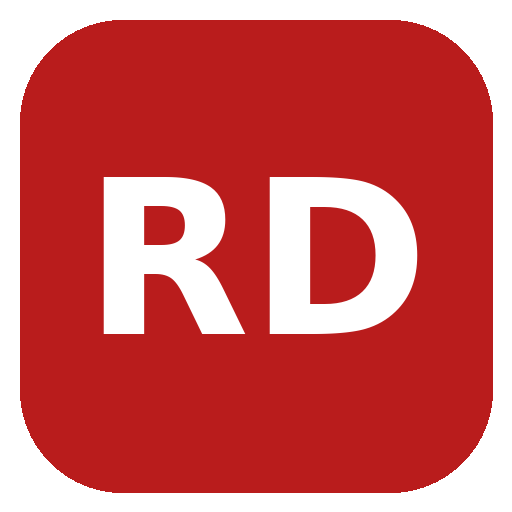
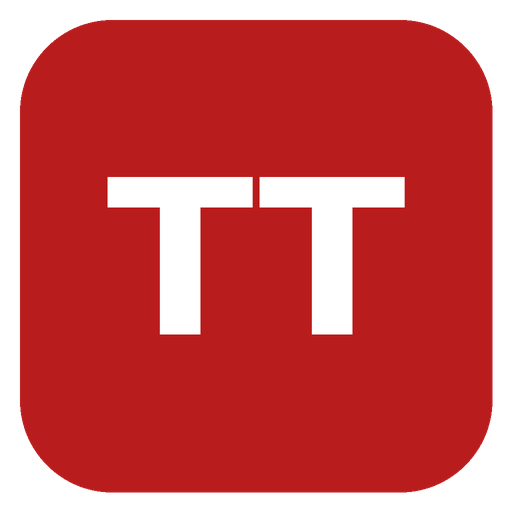
Rename the system from ReturnDesk to Track-and-Trace
Visible name, logo initials, app icons, page titles, installed-app name,
emails, notifications, download filenames, docs, and test fixtures now
say Track-and-Trace. Internal identifiers that live data depends on stay
as they are: the returndesk database name, the returndesk/ Cloudinary
folders, and the service worker cache name.

The admin header shows only the TT mark on wide screens so the longer
name doesn't push the navigation out of place.

diff --git a/tests/api/setup-users.ts b/tests/api/setup-users.ts
@@ -5,7 +5,7 @@
 // Uses DATABASE_URL (or .env.local) and refuses to touch a non-local database.
 import { config } from "dotenv";
 import { hashPassword } from "better-auth/crypto";
-import { eq, inArray } from "drizzle-orm";
+import { eq, inArray, or } from "drizzle-orm";
 import { drizzle } from "drizzle-orm/mysql2";
 import mysql from "mysql2/promise";
 import { randomUUID } from "node:crypto";
@@ -15,8 +15,8 @@ import * as schema from "../../src/db/schema";
 config({ path: ".env.local" });
 
 const API_USERS = {
-  student: { email: "api.student@returndesk.test", verified: true },
-  unverified: { email: "api.unverified@returndesk.test", verified: false },
+  student: { email: "api.student@trackandtrace.test", verified: true },
+  unverified: { email: "api.unverified@trackandtrace.test", verified: false },
 };
 
 async function main() {
@@ -31,7 +31,12 @@ async function main() {
   const pool = mysql.createPool(poolOptions(url));
   const db = drizzle(pool, { schema, mode: "default" });
   const emails = Object.values(API_USERS).map((u) => u.email);
-  const old = await db.select({ id: schema.user.id }).from(schema.user).where(inArray(schema.user.email, emails));
+  const idNumbers = Object.keys(API_USERS).map((key) => `API-${key.toUpperCase()}`);
+  // Match on ID number too, so accounts left from an older email domain are replaced.
+  const old = await db
+    .select({ id: schema.user.id })
+    .from(schema.user)
+    .where(or(inArray(schema.user.email, emails), inArray(schema.user.idNumber, idNumbers)));
   for (const { id } of old) {
     await db.delete(schema.session).where(eq(schema.session.userId, id));
     await db.delete(schema.account).where(eq(schema.account.userId, id));

diff --git a/src/app/(public)/page.tsx b/src/app/(public)/page.tsx
@@ -8,7 +8,7 @@ const steps = [
   },
   {
     title: "Match",
-    body: "ReturnDesk compares lost and found reports automatically and alerts you when it finds a likely match.",
+    body: "Track-and-Trace compares lost and found reports automatically and alerts you when it finds a likely match.",
   },
   {
     title: "Claim",
@@ -28,7 +28,7 @@ export default function HomePage() {
             Lost something on campus? Let&apos;s get it back to you.
           </h1>
           <p className="mt-4 max-w-xl text-brand-100">
-            ReturnDesk is the official channel for reporting, searching, and claiming lost and found
+            Track-and-Trace is the official channel for reporting, searching, and claiming lost and found
             items. No more scrolling through group chats and notice boards.
           </p>
           <div className="mt-8 flex flex-wrap gap-3">
@@ -64,7 +64,7 @@ export default function HomePage() {
         <div className="rounded-lg bg-amber-50 p-5 text-sm text-amber-900 ring-1 ring-amber-200">
           <p className="font-semibold">Found an item?</p>
           <p className="mt-1">
-            Report it in ReturnDesk, then bring it to the Lost and Found Office. Under the Civil Code
+            Report it in Track-and-Trace, then bring it to the Lost and Found Office. Under the Civil Code
             (Articles 719–720), found property must be returned to its owner or turned over to the
             proper authorities. The office keeps it safe until the owner is verified.
           </p>

diff --git a/src/lib/email.ts b/src/lib/email.ts
@@ -26,7 +26,7 @@ function layout(title: string, paragraphs: string[], action?: { label: string; u
        <p style="margin:0 0 12px;font-size:12px;color:#6b7280">If the button doesn't work, copy this link: ${escapeHtml(action.url)}</p>`
     : "";
   return `<div style="font-family:Arial,sans-serif;max-width:560px;margin:auto;color:#111827">
-    <h2 style="color:#1d4ed8;margin:0 0 16px">ReturnDesk</h2>
+    <h2 style="color:#1d4ed8;margin:0 0 16px">Track-and-Trace</h2>
     <h3 style="margin:0 0 12px">${escapeHtml(title)}</h3>
     ${body}${button}
     <hr style="border:none;border-top:1px solid #e5e7eb;margin:24px 0">
@@ -58,9 +58,9 @@ export async function sendEmail(message: EmailMessage) {
   }
   try {
     await transporter.sendMail({
-      from: `ReturnDesk <${env.SMTP_USER}>`,
+      from: `Track-and-Trace <${env.SMTP_USER}>`,
       to: message.to,
-      subject: `ReturnDesk: ${message.subject}`,
+      subject: `Track-and-Trace: ${message.subject}`,
       text,
       html: layout(message.title, message.paragraphs, action),
     });

diff --git a/src/app/(public)/layout.tsx b/src/app/(public)/layout.tsx
@@ -13,7 +13,7 @@ export default async function PublicLayout({ children }: { children: React.React
           <nav className="flex items-center gap-2">
             {user ? (
               <Link href={user.role === "admin" ? "/admin" : "/dashboard"} className={buttonClass("primary", "sm")}>
-                Open ReturnDesk
+                Open Track-and-Trace
               </Link>
             ) : (
               <>
@@ -31,7 +31,7 @@ export default async function PublicLayout({ children }: { children: React.React
       <main className="flex-1">{children}</main>
       <footer className="border-t border-slate-200 bg-white">
         <div className="mx-auto flex max-w-6xl flex-col gap-2 px-4 py-6 text-xs text-slate-500 sm:flex-row sm:justify-between">
-          <p>ReturnDesk · Bulacan State University – Main Campus Lost and Found</p>
+          <p>Track-and-Trace · Bulacan State University – Main Campus Lost and Found</p>
           <Link href="/privacy" className="hover:underline">
             Data privacy notice
           </Link>

diff --git a/public/offline.html b/public/offline.html
@@ -3,7 +3,7 @@
   <head>
     <meta charset="utf-8" />
     <meta name="viewport" content="width=device-width, initial-scale=1" />
-    <title>Offline · ReturnDesk</title>
+    <title>Offline · Track-and-Trace</title>
     <style>
       body { font-family: system-ui, sans-serif; background: #f8fafc; color: #0f172a; display: flex; min-height: 100vh; align-items: center; justify-content: center; margin: 0; padding: 16px; }
       .card { background: #fff; border-radius: 12px; padding: 32px; max-width: 360px; text-align: center; box-shadow: 0 1px 3px rgba(0,0,0,.1); }
@@ -15,7 +15,7 @@
     <div class="card">
       <div class="logo">RD</div>
       <h1 style="font-size:20px">You're offline</h1>
-      <p style="color:#475569;font-size:14px">ReturnDesk needs an internet connection. Check your connection and try again.</p>
+      <p style="color:#475569;font-size:14px">Track-and-Trace needs an internet connection. Check your connection and try again.</p>
       <button onclick="location.reload()">Try again</button>
     </div>
   </body>

diff --git a/src/components/logo.tsx b/src/components/logo.tsx
@@ -1,12 +1,14 @@
 import Link from "next/link";
 
-export function Logo({ href = "/" }: { href?: string }) {
+// `compact` hides the name on wide screens, where the admin navigation needs
+// the room; below that width the navigation collapses into a menu.
+export function Logo({ href = "/", compact = false }: { href?: string; compact?: boolean }) {
   return (
-    <Link href={href} className="flex items-center gap-2 font-semibold text-slate-900">
-      <span className="flex h-8 w-8 items-center justify-center rounded-md bg-brand-600 text-sm font-bold text-white">
-        RD
+    <Link href={href} className="flex shrink-0 items-center gap-2 whitespace-nowrap font-semibold text-slate-900">
+      <span className="flex h-8 w-8 shrink-0 items-center justify-center rounded-md bg-brand-600 text-sm font-bold text-white">
+        TT
       </span>
-      <span className="text-lg tracking-tight">ReturnDesk</span>
+      <span className={`text-lg tracking-tight${compact ? " xl:sr-only" : ""}`}>Track-and-Trace</span>
     </Link>
   );
 }

diff --git a/src/lib/auth.ts b/src/lib/auth.ts
@@ -84,7 +84,7 @@ export const auth = betterAuth({
         title: "Reset your password",
         paragraphs: [
           `Hi ${user.name},`,
-          "We received a request to reset your ReturnDesk password. The link below expires in one hour.",
+          "We received a request to reset your Track-and-Trace password. The link below expires in one hour.",
           "If you didn't ask for this, you can ignore this email.",
         ],
         action: { label: "Reset password", url },
@@ -102,7 +102,7 @@ export const auth = betterAuth({
         title: "Confirm your email address",
         paragraphs: [
           `Hi ${user.name},`,
-          "Thanks for registering with ReturnDesk. Confirm your email to start reporting and claiming items.",
+          "Thanks for registering with Track-and-Trace. Confirm your email to start reporting and claiming items.",
         ],
         action: { label: "Verify email", url },
       });

diff --git a/src/app/layout.tsx b/src/app/layout.tsx
@@ -6,11 +6,11 @@ import "./globals.css";
 const geistSans = Geist({ variable: "--font-geist-sans", subsets: ["latin"] });
 
 export const metadata: Metadata = {
-  title: { default: "ReturnDesk", template: "%s · ReturnDesk" },
+  title: { default: "Track-and-Trace", template: "%s · Track-and-Trace" },
   description:
     "Lost and found management system for Bulacan State University – Main Campus: report, search, match, and claim lost items.",
-  applicationName: "ReturnDesk",
-  appleWebApp: { capable: true, title: "ReturnDesk", statusBarStyle: "default" },
+  applicationName: "Track-and-Trace",
+  appleWebApp: { capable: true, title: "Track-and-Trace", statusBarStyle: "default" },
 };
 
 export const viewport: Viewport = {

diff --git a/src/app/(auth)/register/register-form.tsx b/src/app/(auth)/register/register-form.tsx
@@ -112,7 +112,7 @@ export function RegisterForm({ colleges }: { colleges: College[] }) {
       <div className="rounded-md bg-slate-50 p-3 text-xs text-slate-600 ring-1 ring-slate-200">
         <p className="font-medium text-slate-800">Data privacy notice</p>
         <p className="mt-1">
-          ReturnDesk collects your name, ID number, college, contact details, and the reports and
+          Track-and-Trace collects your name, ID number, college, contact details, and the reports and
           claims you submit, only to help recover lost items on campus. Lost and found administrators
           can see this information. It is handled under the Data Privacy Act of 2012 (RA 10173). See
           the{" "}

diff --git a/src/components/app-shell.tsx b/src/components/app-shell.tsx
@@ -67,7 +67,7 @@ export async function AppShell({
       <header className="sticky top-0 z-30 border-b border-slate-200 bg-white">
         <div className="relative mx-auto flex h-14 max-w-6xl items-center justify-between gap-4 px-4">
           <div className="flex items-center gap-6">
-            <Logo href={section === "admin" ? "/admin" : "/dashboard"} />
+            <Logo href={section === "admin" ? "/admin" : "/dashboard"} compact={section === "admin"} />
             {section === "admin" && (
               <span className="hidden rounded bg-gold-400 px-2 py-0.5 text-xs font-semibold text-slate-900 sm:inline">
                 ADMIN

diff --git a/src/app/(public)/privacy/page.tsx b/src/app/(public)/privacy/page.tsx
@@ -7,7 +7,7 @@ export default function PrivacyPage() {
     <article className="mx-auto max-w-3xl space-y-4 px-4 py-10 text-sm leading-6 text-slate-700">
       <h1 className="text-2xl font-semibold text-slate-900">Data privacy notice</h1>
       <p>
-        ReturnDesk is the lost and found management system of Bulacan State University – Main Campus.
+        Track-and-Trace is the lost and found management system of Bulacan State University – Main Campus.
         This notice explains what personal information it collects and how it is used, in line with the
         Data Privacy Act of 2012 (Republic Act No. 10173).
       </p>

diff --git a/src/app/(app)/profile/page.tsx b/src/app/(app)/profile/page.tsx
@@ -59,7 +59,7 @@ export default async function ProfilePage() {
       <Card className="space-y-3">
         <h2 className="font-semibold">Your data</h2>
         <p className="text-sm text-slate-600">
-          Under the Data Privacy Act you can get a copy of the personal data ReturnDesk holds about you.
+          Under the Data Privacy Act you can get a copy of the personal data Track-and-Trace holds about you.
         </p>
         <a href="/api/me/export" className="inline-block text-sm font-medium text-brand-700 hover:underline">
           Download my data (JSON)
